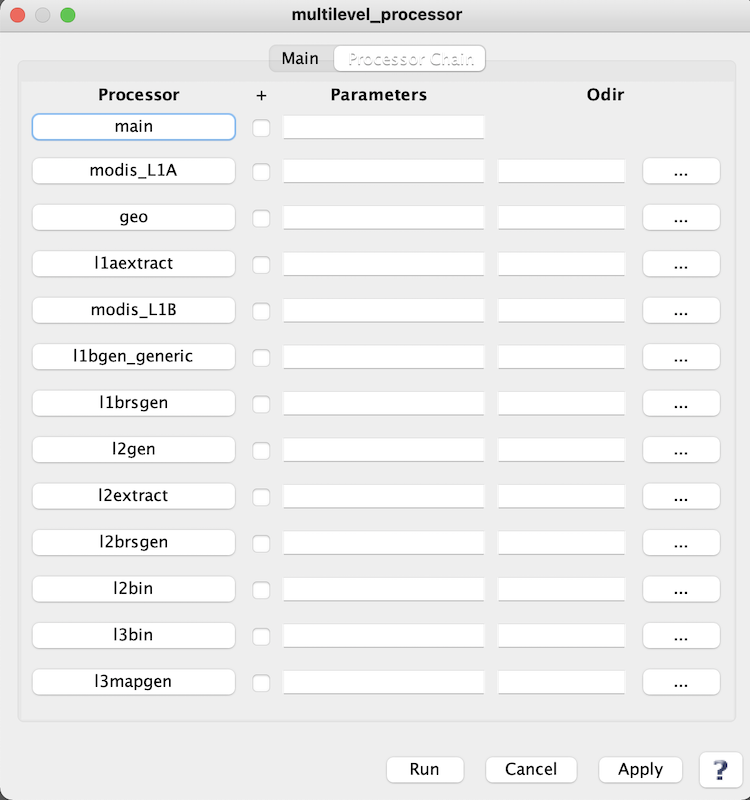
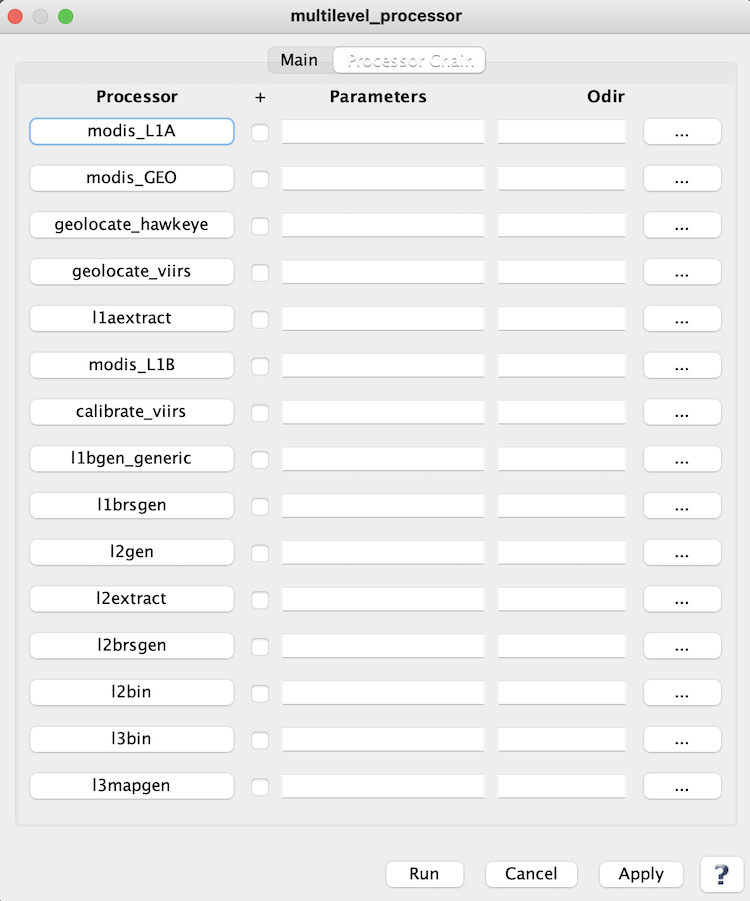
Edit Multileve_processor's help page

diff --git a/seadas-processing/src/main/resources/gov/nasa/gsfc/seadas/processing/docs/processors/ProcessMultilevel_processor.html b/seadas-processing/src/main/resources/gov/nasa/gsfc/seadas/processing/docs/processors/ProcessMultilevel_processor.html
@@ -213,14 +213,17 @@
 
 <ul>
     <li><a href="ProcessModis_L1A.html">modis_L1A</a></li>
-    <li><a href="ProcessModis_GEO.html">geo</a></li>
+    <li><a href="ProcessModis_GEO.html">modi_GEO</a></li>
+    <li><a href="ProcessGeolocate_hawkeye.html">geolocate_hawkeye</a></li>
+    <li><a href="ProcessGeolocate_viirs.html">geolocate_viirs</a></li>
 <!--    <li><a href="ProcessL1aextract_modis.html">l1aextract_modis</a></li>-->
 <!--    <li><a href="ProcessL1aextract_seawifs.html">l1aextract_seawifs</a></li>-->
 <!--    <li><a href="ProcessL1aextract_viirs.html">l1aextract_viirs</a></li>-->
     <li><a href="ProcessExtractors.html">l1aextract</a></li>
     <li><a href="ProcessL1brsgen.html">l1brsgen</a></li>
     <li><a href="ProcessModis_L1B.html">modis_L1B</a></li>
-    <li><a href="ProcessL1bgen.html">l1bgen_generic</a></li>
+    <li><a href="ProcessCalibrate_viirs.html">calibrate_viirs</a></li>
+    <li><a href="ProcessL1bgen_generic.html">l1bgen_generic</a></li>
     <li><a href="ProcessL2gen.html">l2gen</a></li>
     <li><a href="ProcessL2extract.html">l2extract</a></li>
     <li><a href="ProcessL2brsgen.html">l2brsgen</a></li>
